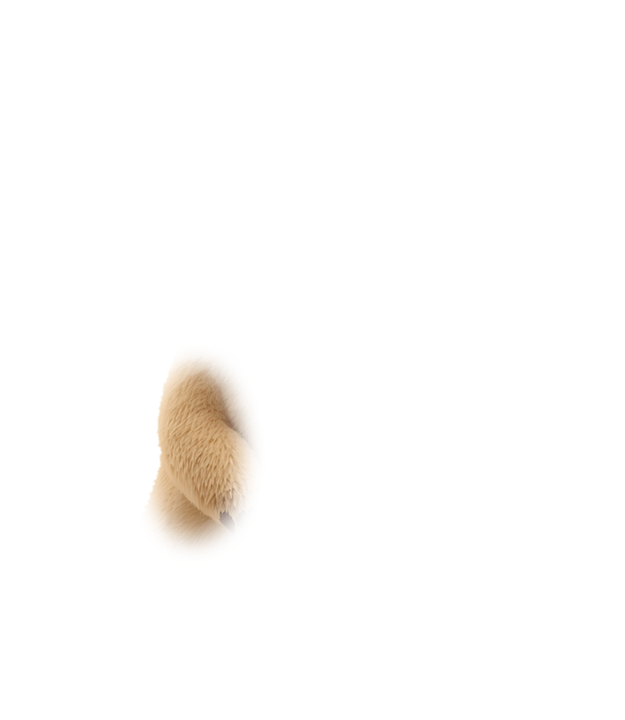
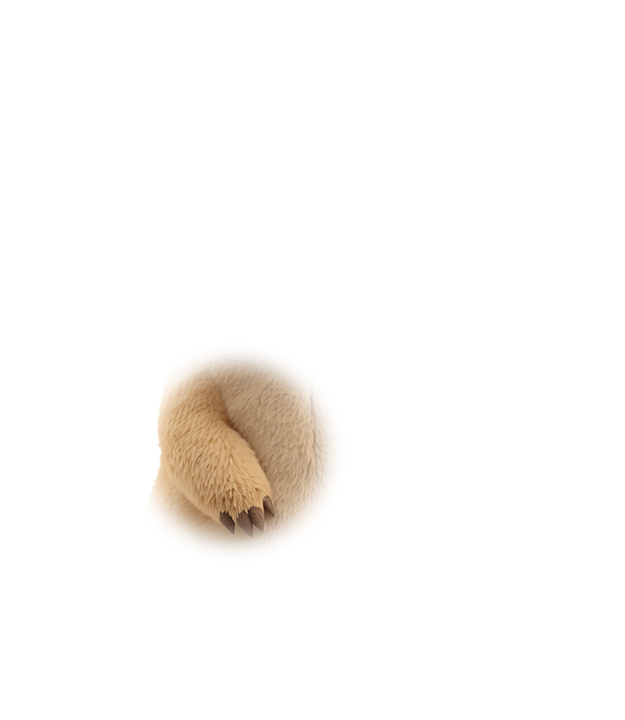
엄마 발톱이 배에 남던 것 — 팔 도려내기가 발톱까지 안 닿았다
짝꿍은 앞발을 배 쪽으로 모으고 있어 **발톱이 안쪽 깊숙이** 들어와 있다.
왼쪽 안쪽끝을 247로 잡았는데 발톱은 328까지 뻗어 있어서, 80px이 몸통에
그대로 남았다 — 팔을 들어 먹을 때 배에 발톱만 둥둥 떠 있었다(사용자 지적).
다섯 조각을 다 훑어보니 짝꿍에만 있던 문제다.

경계를 발톱 끝까지 밀었더니 이번엔 **메우는 방식**이 무너졌다. 도려낼 폭이
넓어지자 옆에서 가져올 띠가 9px밖에 안 남아, 그걸 178px에 접어 넣느라 배에
헤링본 무늬가 깔렸다. 위에서 끌어오는 것도 안 된다 — 팔 바로 위가 이미 턱이라
얼굴이 배로 내려온다.

그래서 옆 띠가 좁으면(필요 폭의 45% 미만) **흐리게 뭉갠 털**로 메운다.
이 자리는 평소에 앞발이 덮고 있고 팔을 들 때만 잠깐 드러난다. 결이 없는
흐릿한 털은 "팔 밑 그늘"로 읽히지만, 되풀이되는 무늬나 남은 발톱은 그 순간
바로 눈에 띈다. 다른 넷은 옆 띠가 넉넉해서 예전 방식 그대로다.

Changed region(s): [[0.2432, 0.4889, 0.5472, 0.7639]]

diff --git a/tool/rig_stages.py b/tool/rig_stages.py
@@ -70,9 +70,12 @@ SPECS = [
          (322, 190, 75, 45),
          [(133, 455, 61, 116), (525, 455, 60, 116)], [(160, 372), (499, 372)], [213, 447]),
     # 배우자 — 어른보다 작고 얼굴이 둥글다. 성인과 비슷한 몸매.
+    # 짝꿍은 앞발을 배 쪽으로 모으고 있어 **발톱이 안쪽 깊숙이** 들어와 있다.
+    # 왼쪽 안쪽끝을 247로 잡았더니 발톱 끝 80px이 몸통에 그대로 남아서,
+    # 팔을 들어 먹을 때 배에 발톱만 붙어 있었다(사용자 지적).
     Spec('f1', 328, 138, 340, 300, [(262, 195), (400, 195)], 14,
          (330, 275, 58, 36),
-         [(201, 478, 45, 90), (458, 478, 45, 90)], [(220, 400), (439, 400)], [247, 393]),
+         [(201, 478, 45, 90), (458, 478, 45, 90)], [(220, 400), (439, 400)], [334, 393]),
 ]
 
 # 눈꺼풀을 눈 위 이 배수만큼 떨어진 곳에서 떠 온다(감을 때 그만큼 내려온다).
@@ -246,16 +249,33 @@ def build(spec: Spec):
             other = pads[1 - i]
             arr = np.asarray(src)
             need = px1 - px0
-            if left:
-                avail = max(other[0] - px1, 8)
-                band = arr[:, px1:px1 + avail]
-                fill = np.pad(band, ((0, 0), (need, 0), (0, 0)),
-                              mode='reflect')[:, :need]
+            # 옆에서 가져올 수 있는 폭. 반대쪽 팔을 끌어오면 안 되므로
+            # 두 자국 사이만 쓴다.
+            avail = (max(other[0] - px1, 0) if left
+                     else max(px0 - other[1], 0))
+            if avail >= need * 0.45:
+                # **옆에서 반사.** 이음매에서 색이 정확히 이어진다.
+                if left:
+                    band = arr[:, px1:px1 + avail]
+                    fill = np.pad(band, ((0, 0), (need, 0), (0, 0)),
+                                  mode='reflect')[:, :need]
+                else:
+                    band = arr[:, px0 - avail:px0]
+                    fill = np.pad(band, ((0, 0), (0, need), (0, 0)),
+                                  mode='reflect')[:, -need:]
             else:
-                avail = max(px0 - other[1], 8)
-                band = arr[:, px0 - avail:px0]
-                fill = np.pad(band, ((0, 0), (0, need), (0, 0)),
-                              mode='reflect')[:, -need:]
+                # **흐리게 뭉갠 털로 메운다.**
+                #
+                # 옆이 좁으면 그 좁은 띠를 수십 번 접게 되어 배에 헤링본
+                # 무늬가 깔린다(짝꿍에서 겪었다 — 발톱이 배 안쪽 깊숙이
+                # 들어와 있어 도려낼 폭이 넓다). 위에서 끌어오는 것도 안 된다:
+                # 팔 바로 위가 이미 턱이라 얼굴이 배로 내려온다.
+                #
+                # 이 자리는 **평소에 앞발이 덮고 있고** 팔을 들 때만 잠깐
+                # 드러난다. 결이 없는 흐릿한 털은 "팔 밑 그늘"로 읽히지만,
+                # 되풀이되는 무늬나 남은 발톱은 그 순간 바로 눈에 띈다.
+                blurred = src.filter(ImageFilter.GaussianBlur(26))
+                fill = np.asarray(blurred)[:, px0:px1]
             patch = src.copy()
             strip = Image.fromarray(fill, 'RGBA')
             patch.paste(strip, (px0, 0), strip)
